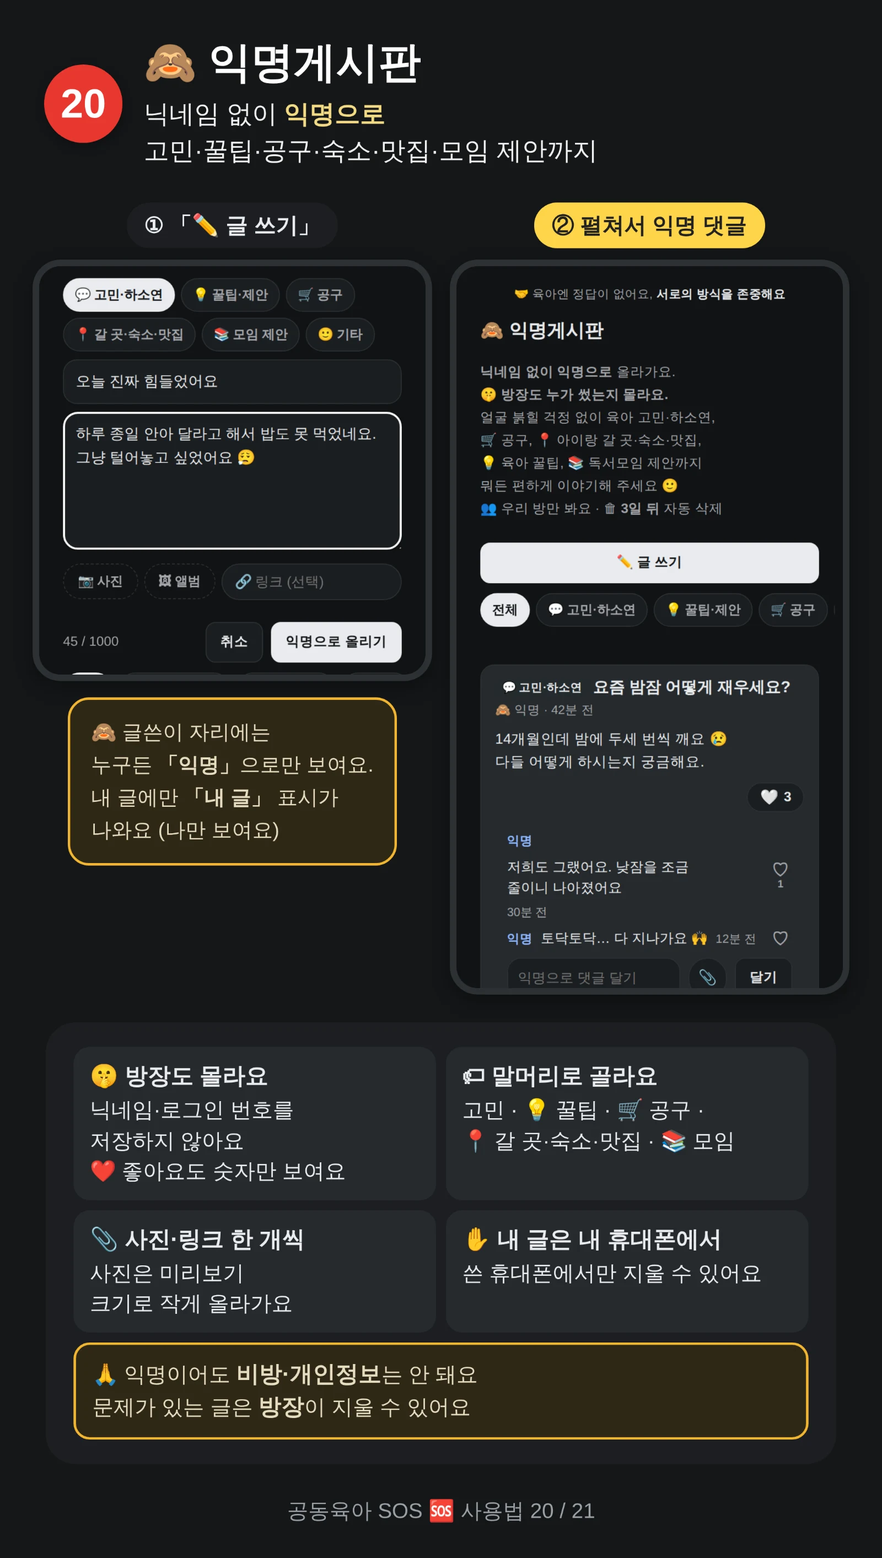
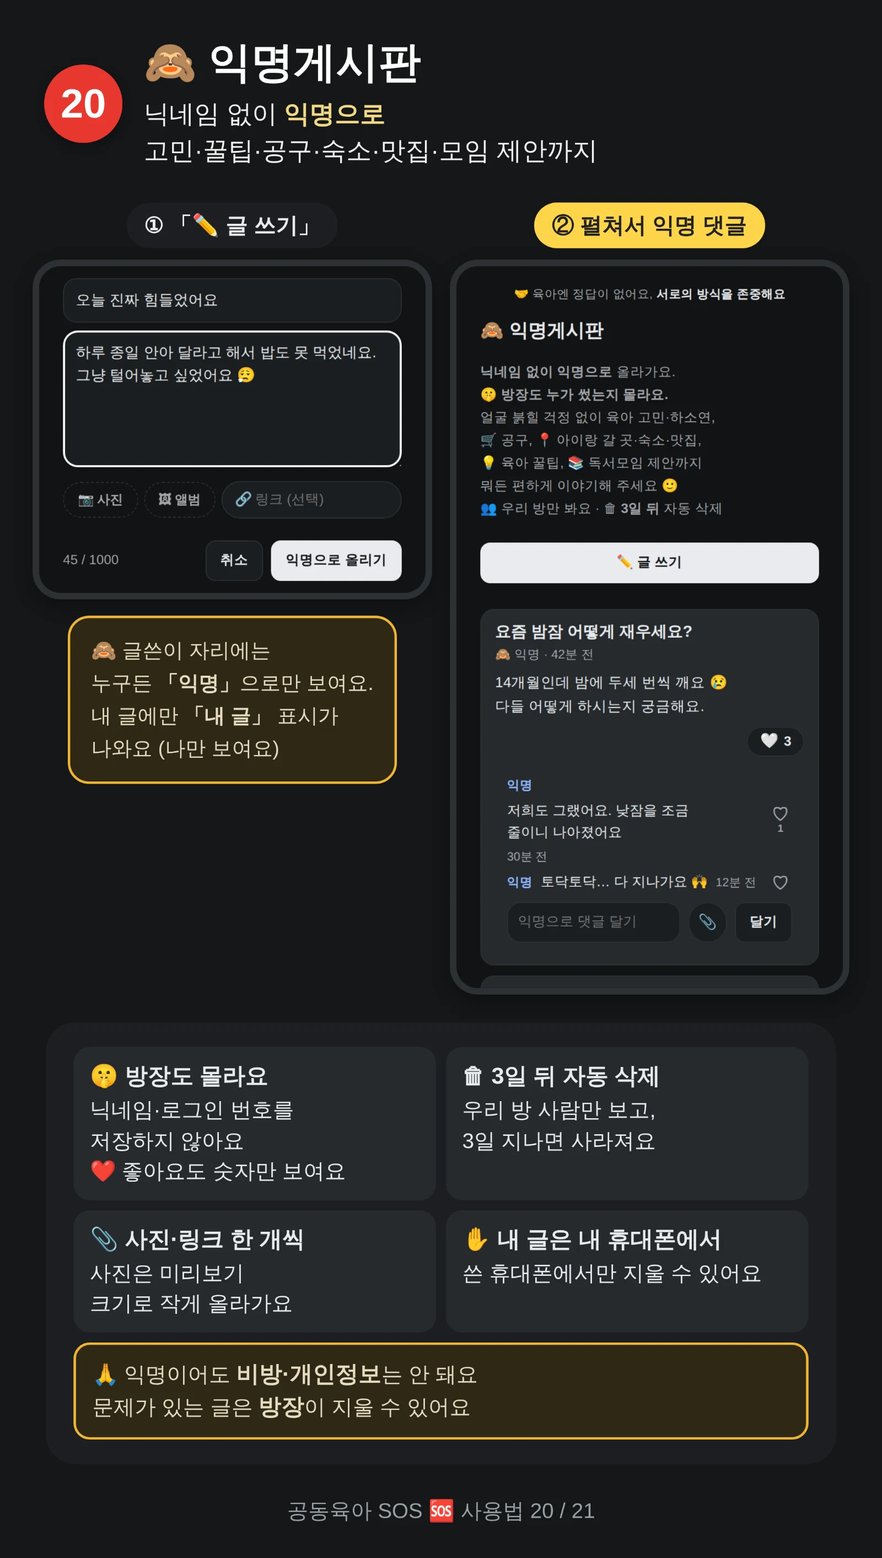
익명게시판 말머리 구분 제거 (필터·배지·글쓰기 선택 없앰), 개인정보 문구·사용법 20 갱신
Claude-Session: https://claude.ai/code/session_01EFizHcDdWswyQN5TmKwWHe

diff --git a/sos/safety.html b/sos/safety.html
@@ -8,14 +8,14 @@
 <link rel="preconnect" href="https://fonts.gstatic.com" crossorigin>
 <link rel="stylesheet" href="https://fonts.googleapis.com/css2?family=IBM+Plex+Sans+KR:wght@400;500;600;700&display=swap">
 <link rel="icon" href="assets/icon.svg" type="image/svg+xml">
-<link rel="manifest" href="manifest.webmanifest?v=202610150110">
+<link rel="manifest" href="manifest.webmanifest?v=202610150342">
 <meta name="theme-color" content="#2a9095">
 <link rel="apple-touch-icon" href="assets/icon-sos-180.png">
 <meta name="apple-mobile-web-app-capable" content="yes">
 <meta name="mobile-web-app-capable" content="yes">
 <meta name="apple-mobile-web-app-title" content="공동육아 SOS">
-<link rel="stylesheet" href="assets/common.css?v=202610150110">
-<script src="assets/gate.js?v=202610150110"></script>
+<link rel="stylesheet" href="assets/common.css?v=202610150342">
+<script src="assets/gate.js?v=202610150342"></script>
 </head>
 <body>
 <div class="wrap single">
@@ -100,7 +100,7 @@
         <tr><td>🙌 모임</td><td>날짜·시간, 장소/놀이 글, <b>주최자 닉네임</b>(연 사람은 처음부터 '참석'으로 표시돼요), 참석·불참한 사람의 닉네임, 댓글 글과 닉네임, 붙인 경우 미리보기 크기로 줄인 사진 한 장(약 20KB)과 링크 주소, ❤ 좋아요 누른 사람의 익명 로그인 번호(uid)와 닉네임(누가 눌렀는지 보여요, 댓글 좋아요도 같아요)</td></tr>
         <tr><td>🍚 식단 사진</td><td>작게 줄인 사진(한 장 약 20KB), <b>올린 사람의 닉네임</b>, 끼니·날짜, 적은 경우 메모·아이 개월수, 익명 로그인 번호(uid), ❤ 좋아요 누른 사람의 익명 로그인 번호와 닉네임(누가 눌렀는지 보여요). 올린 날부터 3일 뒤 지워져요.</td></tr>
         <tr><td>💬 사진·모임 댓글</td><td>댓글 글, <b>쓴 사람의 닉네임</b>, 시간, 답글이면 받는 사람의 로그인 번호(알림을 보내는 데만 써요). 사진·모임과 함께 지워져요.</td></tr>
-        <tr><td>🙈 익명게시판</td><td>말머리(고민·제안·공구·갈 곳·모임·기타), 제목·내용·댓글과 올린 시간, 붙인 경우 미리보기 크기로 줄인 사진 한 장(약 20KB)과 링크 주소, '내 글' 확인용 비밀값의 지문(kh), ❤ 좋아요(글·댓글)는 누가 눌렀는지 알 수 없게 글마다 다른 지문만. <b>닉네임·로그인 번호는 저장하지 않아서 방장도 누가 썼는지, 누가 좋아요를 눌렀는지 몰라요.</b> 3일 뒤 지워져요.</td></tr>
+        <tr><td>🙈 익명게시판</td><td>제목·내용·댓글과 올린 시간, 붙인 경우 미리보기 크기로 줄인 사진 한 장(약 20KB)과 링크 주소, '내 글' 확인용 비밀값의 지문(kh), ❤ 좋아요(글·댓글)는 누가 눌렀는지 알 수 없게 글마다 다른 지문만. <b>닉네임·로그인 번호는 저장하지 않아서 방장도 누가 썼는지, 누가 좋아요를 눌렀는지 몰라요.</b> 3일 뒤 지워져요.</td></tr>
         <tr><td>📈 운영 통계</td><td>방 사람들은 볼 수 없고 <b>운영자만</b> 봐요. ① 날짜별 방문자 수·조회수 숫자 두 개 (누가 왔는지는 없어요) ② 방마다 '들어온 시각' 기록 (닉네임 없이 시각만. 누적 가입자 수를 세는 데 써요)</td></tr>
       </table>
       <p class="hint">모임 방마다 따로 저장돼서, <b>방 비밀번호를 아는 사람만</b> 그 방의 SOS·모임·댓글·식단·익명게시판을 볼 수 있어요. 다른 방 사람은 볼 수 없어요.<br>통신은 모두 암호화(HTTPS)돼요. 서버는 Google Firebase를 써요.</p>
@@ -128,7 +128,7 @@
         <li><b>멤버</b>: 방장은 '👥 멤버'에서 내보낼 수 있어요. 내보내진 휴대폰은 그 방을 더 이상 볼 수 없어요.</li>
         <li><b>모임 댓글</b>: 쓴 휴대폰에서 댓글 옆 '수정'·'삭제'를 누르면 돼요.</li>
         <li><b>🍚 식단 사진</b>: 우리 방 사람만 볼 수 있어요. 휴대폰에서 작게 줄여(한 장 약 20KB) 올리고, 올린 날부터 3일 뒤 서버에서 자동으로 지워져요. 올린 사람과 방장만 '✕'로 지울 수 있어요. 아이 얼굴·집 안이 나오지 않게 음식만 찍어 주세요.</li>
-        <li><b>🙈 익명게시판</b>: 말머리와 제목·내용·댓글, 올린 시간, 붙인 사진·링크만 저장하고, 닉네임·로그인 번호는 저장하지 않아요. 내 글인지는 이 휴대폰에만 있는 비밀값으로 확인해요. 우리 방 사람만 볼 수 있고 3일 뒤 자동으로 지워져요. '내 정보 모두 지우기'를 누르면 이 휴대폰에서 쓴 글·댓글도 지워져요. 모임·식단에 누른 ❤ 좋아요도 함께 빠지고, 익명게시판 좋아요는 누가 눌렀는지 알 수 없어서 글과 함께 3일 안에 사라져요.</li>
+        <li><b>🙈 익명게시판</b>: 제목·내용·댓글, 올린 시간, 붙인 사진·링크만 저장하고, 닉네임·로그인 번호는 저장하지 않아요. 내 글인지는 이 휴대폰에만 있는 비밀값으로 확인해요. 우리 방 사람만 볼 수 있고 3일 뒤 자동으로 지워져요. '내 정보 모두 지우기'를 누르면 이 휴대폰에서 쓴 글·댓글도 지워져요. 모임·식단에 누른 ❤ 좋아요도 함께 빠지고, 익명게시판 좋아요는 누가 눌렀는지 알 수 없어서 글과 함께 3일 안에 사라져요.</li>
         <li><b>💬 사진 댓글·답글</b>: 닉네임·글·시간이 저장되고, 사진과 함께 지워져요. 쓴 사람·사진 올린 사람·방장이 지울 수 있어요. 댓글이나 답글이 달리면 받는 사람에게만 알림이 가요(알림 채널 이름은 방 열쇠와 로그인 번호로 만든 암호값이에요).</li>
         <li><b>알림</b>: 알림을 켜면 이 휴대폰의 알림 주소(토큰)가 Google 알림 서버(Firebase Cloud Messaging)에 우리 방 채널로 등록돼요. 잠금화면에 보일 수 있어서 새 모임·SOS 알림에는 방 이름과 날짜·시간만 넣어요. 댓글·답글 알림은 받는 사람 한 명에게만 가고 쓴 사람 닉네임과 글 앞부분(60자까지)이 보여요, 홈의 '알림 끄기'로 언제든 빠질 수 있어요.</li>
         <li class="ttl-only"><b>자동 삭제</b>: 모임·댓글·SOS 요청는 그 날짜가 지나고 3일 뒤 서버에서 자동으로 지워져요. (방 사람이 앱을 열 때 정리돼요. 아무도 열지 않으면 조금 늦어질 수 있어요)</li>
@@ -150,8 +150,8 @@
 <script src="https://www.gstatic.com/firebasejs/10.12.0/firebase-auth-compat.js"></script>
 <script src="https://www.gstatic.com/firebasejs/10.12.0/firebase-firestore-compat.js"></script>
 <script src="https://www.gstatic.com/firebasejs/10.12.0/firebase-messaging-compat.js"></script>
-<script src="assets/common.js?v=202610150110"></script>
-<script src="assets/push.js?v=202610150110"></script>
+<script src="assets/common.js?v=202610150342"></script>
+<script src="assets/push.js?v=202610150342"></script>
 <script>
 document.getElementById('deleteMe').addEventListener('click', async e => {
   const owning = sosRooms().filter(r => r.owner).map(r => r.name);   // 내가 방장인 방이 있으면 먼저 알려 줘요

diff --git a/sos/assets/idea.js b/sos/assets/idea.js
@@ -26,15 +26,13 @@ function renderIdeas(){
   const fo = document.activeElement && document.activeElement.closest && document.activeElement.closest('[data-idea]');   // 쓰는 중인 댓글은 지켜요
   const draft = fo ? {id: fo.dataset.idea, v: fo.querySelector('input').value} : null;
   ul.querySelectorAll('[data-idea] input').forEach(i => { if(i.value) idea.drafts[i.closest('[data-idea]').dataset.idea] = i.value; });
-  const list = idea.items.filter(x => !x.deleted && (!idea.filter || (x.c || 'talk') === idea.filter));
-  const f = $i('#ideaFilter'); if(f && !f.childElementCount){ f.innerHTML = [['', '전체'], ...IDEA_CATS].map(([k, n]) => `<button type="button" data-filter="${k}" aria-pressed="${k === idea.filter}">${n}</button>`).join(''); }
-  if(f) f.querySelectorAll('button').forEach(b => b.setAttribute('aria-pressed', String(b.dataset.filter === idea.filter)));
-  if(!list.length){ ul.innerHTML = `<li class="hint idea-empty">${idea.filter ? '이 말머리 글이 아직 없어요.' : '아직 글이 없어요. 첫 이야기를 편하게 남겨 보세요 🙂'}</li>`; return; }
+  const list = idea.items.filter(x => !x.deleted);   // 말머리 구분 없이 전부 (v19: 말머리 칸은 숨겨요)
+  if(!list.length){ ul.innerHTML = `<li class="hint idea-empty">아직 글이 없어요. 첫 이야기를 편하게 남겨 보세요 🙂</li>`; return; }
   ul.innerHTML = '';
   list.forEach(x => {
     const li = document.createElement('li'); li.className = 'idea-card'; li.dataset.id = x.id;
     const mine = !!keys[ipath(x.id)], opened = idea.open.has(x.id);
-    li.innerHTML = `<button type="button" class="idea-head" data-toggle="${x.id}" aria-expanded="${opened}"><b class="idea-t"><span class="idea-cat">${catName(x.c || 'talk')}</span></b><span class="idea-m">🙈 익명 · ${ago(x.createdAt)}${mine ? ' · 내 글' : ''}</span></button>
+    li.innerHTML = `<button type="button" class="idea-head" data-toggle="${x.id}" aria-expanded="${opened}"><b class="idea-t"></b><span class="idea-m">🙈 익명 · ${ago(x.createdAt)}${mine ? ' · 내 글' : ''}</span></button>
       <p class="idea-b"></p>`;
     li.querySelector('.idea-t').appendChild(document.createTextNode(x.t));
     const b = li.querySelector('.idea-b'); b.textContent = x.b; if(!opened) b.classList.add('clip');
@@ -104,10 +102,6 @@ async function removeDoc(ref, path){
   $i('#ideaCancel').addEventListener('click', () => { form.hidden = true; $i('#ideaOpen').hidden = false; });
   body.addEventListener('input', () => { $i('#ideaCount').textContent = `${body.value.length} / 1000`; });
   if(typeof attachUI === 'function') idea.attach = attachUI(form, {before: $i('#ideaAttach')});
-  const cats = $i('#ideaCats'); cats.innerHTML = IDEA_CATS.map(([k, n]) => `<button type="button" data-cat="${k}" aria-pressed="${k === idea.cat}">${n}</button>`).join('');
-  cats.addEventListener('click', e => { const b = e.target.closest('[data-cat]'); if(!b) return; idea.cat = b.dataset.cat; cats.querySelectorAll('button').forEach(x => x.setAttribute('aria-pressed', String(x === b)));
-    title.placeholder = {talk: '제목 (예: 요즘 밤잠 어떻게 재우세요?)', idea: '제목 (예: 밤잠 꿀팁 하나 공유해요 / 모임 시간 바꿔 볼까요?)', buy: '제목 (예: 기저귀 공구 같이 하실 분?)', place: '제목 (예: 아이랑 가기 좋은 숙소·맛집 추천해요)', club: '제목 (예: 육아책 독서모임 해요)', etc: '제목'}[idea.cat] || '제목'; });
-  $i('#ideaFilter').addEventListener('click', e => { const b = e.target.closest('[data-filter]'); if(!b) return; idea.filter = b.dataset.filter; renderIdeas(); });
   sosReady().then(ok => {
     if(!ok){ $i('#ideaList').innerHTML = '<li class="hint">익명게시판을 불러오지 못했어요. 잠시 뒤 다시 열어 주세요.</li>'; return; }
     idea.col = roomRef().collection('ideas');
@@ -127,7 +121,7 @@ async function removeDoc(ref, path){
     try{
       const ref = idea.col.doc(), k = secret();
       setIdeaKey(ipath(ref.id), k);
-      await ref.set({t, b, c: idea.cat, ...at, kh: await sha(k), createdAt: firebase.firestore.FieldValue.serverTimestamp(),
+      await ref.set({t, b, ...at, kh: await sha(k), createdAt: firebase.firestore.FieldValue.serverTimestamp(),
         expireAt: firebase.firestore.Timestamp.fromMillis(Date.now() + IDEA_DAYS * 864e5)});
       title.value = ''; body.value = ''; $i('#ideaCount').textContent = '0 / 1000'; if(idea.attach) idea.attach.clear();
       form.hidden = true; $i('#ideaOpen').hidden = false;

diff --git a/sos/idea.html b/sos/idea.html
@@ -8,14 +8,14 @@
 <link rel="preconnect" href="https://fonts.gstatic.com" crossorigin>
 <link rel="stylesheet" href="https://fonts.googleapis.com/css2?family=IBM+Plex+Sans+KR:wght@400;500;600;700&display=swap">
 <link rel="icon" href="assets/icon.svg" type="image/svg+xml">
-<link rel="manifest" href="manifest.webmanifest?v=202610150110">
+<link rel="manifest" href="manifest.webmanifest?v=202610150342">
 <meta name="theme-color" content="#2a9095">
 <link rel="apple-touch-icon" href="assets/icon-sos-180.png">
 <meta name="apple-mobile-web-app-capable" content="yes">
 <meta name="mobile-web-app-capable" content="yes">
 <meta name="apple-mobile-web-app-title" content="공동육아 SOS">
-<link rel="stylesheet" href="assets/common.css?v=202610150110">
-<script src="assets/gate.js?v=202610150110"></script>
+<link rel="stylesheet" href="assets/common.css?v=202610150342">
+<script src="assets/gate.js?v=202610150342"></script>
 </head>
 <body>
 <div class="wrap single">
@@ -26,13 +26,11 @@
       <p class="hint idea-note"><b>닉네임 없이 익명으로</b> 올라가요. <span class="nw">🤫 <b>방장도 누가 썼는지 몰라요.</b></span><br><span class="nw">얼굴 붉힐 걱정 없이</span> <span class="nw">육아 고민·하소연,</span> <span class="nw">🛒 공구, 📍 아이랑 갈 곳·숙소·맛집,</span> <span class="nw">💡 육아 꿀팁, 📚 독서모임 제안까지</span> <span class="nw">뭐든 편하게 이야기해 주세요 🙂</span><br><span class="nw">👥 우리 방만 봐요</span> · <span class="nw">🗑 <b>3일 뒤</b> 자동 삭제</span></p>
       <button type="button" class="btn primary block" id="ideaOpen">✏ 글 쓰기</button>
       <form class="idea-form" id="ideaForm" hidden>
-        <div class="idea-cats" id="ideaCats" role="group" aria-label="말머리"></div>
         <input type="text" id="ideaTitle" maxlength="40" placeholder="제목 (예: 요즘 밤잠 어떻게 재우세요?)" aria-label="제목">
         <textarea id="ideaBody" maxlength="1000" rows="5" placeholder="고민·하소연·제안, 뭐든 자유롭게 적어 주세요. 이름·연락처 같은 개인정보는 빼 주세요." aria-label="내용"></textarea>
         <div id="ideaAttach"></div>
         <div class="idea-row"><span class="hint" id="ideaCount">0 / 1000</span><button type="button" class="btn" id="ideaCancel">취소</button><button type="submit" class="btn primary" id="ideaSend">익명으로 올리기</button></div>
       </form>
-      <div class="idea-cats idea-filter" id="ideaFilter" role="group" aria-label="말머리로 보기"></div>
       <ul class="idea-list" id="ideaList"><li class="hint">불러오는 중…</li></ul>
     </section>
     <p class="tiny-note">🙈 쓴 사람이 누구인지 서버에도 남지 않아요.<br><span class="nw">(닉네임·로그인 번호 저장 안 함)</span><br>내 글은 <b>쓴 휴대폰</b>에서만 지울 수 있어요.<br>비방·개인정보가 담긴 글은 <b>방장</b>이 지울 수 있어요.</p>
@@ -43,8 +41,8 @@
 <script src="https://www.gstatic.com/firebasejs/10.12.0/firebase-auth-compat.js"></script>
 <script src="https://www.gstatic.com/firebasejs/10.12.0/firebase-firestore-compat.js"></script>
 <script src="https://www.gstatic.com/firebasejs/10.12.0/firebase-messaging-compat.js"></script>
-<script src="assets/common.js?v=202610150110"></script>
-<script src="assets/push.js?v=202610150110"></script>
-<script src="assets/idea.js?v=202610150110"></script>
+<script src="assets/common.js?v=202610150342"></script>
+<script src="assets/push.js?v=202610150342"></script>
+<script src="assets/idea.js?v=202610150342"></script>
 </body>
 </html>

diff --git a/sos/index.html b/sos/index.html
@@ -9,14 +9,14 @@
 <link rel="preconnect" href="https://fonts.gstatic.com" crossorigin>
 <link rel="stylesheet" href="https://fonts.googleapis.com/css2?family=IBM+Plex+Sans+KR:wght@400;500;600;700&display=swap">
 <link rel="icon" href="assets/icon.svg" type="image/svg+xml">
-<link rel="manifest" href="manifest.webmanifest?v=202610150110">
+<link rel="manifest" href="manifest.webmanifest?v=202610150342">
 <meta name="theme-color" content="#2a9095">
 <link rel="apple-touch-icon" href="assets/icon-sos-180.png">
 <meta name="apple-mobile-web-app-capable" content="yes">
 <meta name="mobile-web-app-capable" content="yes">
 <meta name="apple-mobile-web-app-title" content="공동육아 SOS">
-<link rel="stylesheet" href="assets/common.css?v=202610150110">
-<script src="assets/gate.js?v=202610150110"></script>
+<link rel="stylesheet" href="assets/common.css?v=202610150342">
+<script src="assets/gate.js?v=202610150342"></script>
 </head>
 <body>
 <div class="wrap single">
@@ -85,8 +85,8 @@
 <script src="https://www.gstatic.com/firebasejs/10.12.0/firebase-auth-compat.js"></script>
 <script src="https://www.gstatic.com/firebasejs/10.12.0/firebase-firestore-compat.js"></script>
 <script src="https://www.gstatic.com/firebasejs/10.12.0/firebase-messaging-compat.js"></script>
-<script src="assets/common.js?v=202610150110"></script>
-<script src="assets/push.js?v=202610150110"></script>
+<script src="assets/common.js?v=202610150342"></script>
+<script src="assets/push.js?v=202610150342"></script>
 <script>
 sosSummary();
 // 🦸 구원자: 처음엔 오른쪽 위에서 흔들흔들 → 조금 뒤 테두리를 한 바퀴 날고 다시 제자리 (그 뒤로도 가끔)

diff --git a/sos/meal.html b/sos/meal.html
@@ -8,14 +8,14 @@
 <link rel="preconnect" href="https://fonts.gstatic.com" crossorigin>
 <link rel="stylesheet" href="https://fonts.googleapis.com/css2?family=IBM+Plex+Sans+KR:wght@400;500;600;700&display=swap">
 <link rel="icon" href="assets/icon.svg" type="image/svg+xml">
-<link rel="manifest" href="manifest.webmanifest?v=202610150110">
+<link rel="manifest" href="manifest.webmanifest?v=202610150342">
 <meta name="theme-color" content="#2a9095">
 <link rel="apple-touch-icon" href="assets/icon-sos-180.png">
 <meta name="apple-mobile-web-app-capable" content="yes">
 <meta name="mobile-web-app-capable" content="yes">
 <meta name="apple-mobile-web-app-title" content="공동육아 SOS">
-<link rel="stylesheet" href="assets/common.css?v=202610150110">
-<script src="assets/gate.js?v=202610150110"></script>
+<link rel="stylesheet" href="assets/common.css?v=202610150342">
+<script src="assets/gate.js?v=202610150342"></script>
 </head>
 <body>
 <div class="wrap single">
@@ -44,8 +44,8 @@
 <script src="https://www.gstatic.com/firebasejs/10.12.0/firebase-auth-compat.js"></script>
 <script src="https://www.gstatic.com/firebasejs/10.12.0/firebase-firestore-compat.js"></script>
 <script src="https://www.gstatic.com/firebasejs/10.12.0/firebase-messaging-compat.js"></script>
-<script src="assets/common.js?v=202610150110"></script>
-<script src="assets/push.js?v=202610150110"></script>
-<script src="assets/meal.js?v=202610150110"></script>
+<script src="assets/common.js?v=202610150342"></script>
+<script src="assets/push.js?v=202610150342"></script>
+<script src="assets/meal.js?v=202610150342"></script>
 </body>
 </html>

diff --git a/sos/meet.html b/sos/meet.html
@@ -8,14 +8,14 @@
 <link rel="preconnect" href="https://fonts.gstatic.com" crossorigin>
 <link rel="stylesheet" href="https://fonts.googleapis.com/css2?family=IBM+Plex+Sans+KR:wght@400;500;600;700&display=swap">
 <link rel="icon" href="assets/icon.svg" type="image/svg+xml">
-<link rel="manifest" href="manifest.webmanifest?v=202610150110">
+<link rel="manifest" href="manifest.webmanifest?v=202610150342">
 <meta name="theme-color" content="#2a9095">
 <link rel="apple-touch-icon" href="assets/icon-sos-180.png">
 <meta name="apple-mobile-web-app-capable" content="yes">
 <meta name="mobile-web-app-capable" content="yes">
 <meta name="apple-mobile-web-app-title" content="공동육아 SOS">
-<link rel="stylesheet" href="assets/common.css?v=202610150110">
-<script src="assets/gate.js?v=202610150110"></script>
+<link rel="stylesheet" href="assets/common.css?v=202610150342">
+<script src="assets/gate.js?v=202610150342"></script>
 </head>
 <body>
 <div class="wrap single">
@@ -60,8 +60,8 @@
 <script src="https://www.gstatic.com/firebasejs/10.12.0/firebase-auth-compat.js"></script>
 <script src="https://www.gstatic.com/firebasejs/10.12.0/firebase-firestore-compat.js"></script>
 <script src="https://www.gstatic.com/firebasejs/10.12.0/firebase-messaging-compat.js"></script>
-<script src="assets/common.js?v=202610150110"></script>
-<script src="assets/push.js?v=202610150110"></script>
-<script src="assets/meet.js?v=202610150110"></script>
+<script src="assets/common.js?v=202610150342"></script>
+<script src="assets/push.js?v=202610150342"></script>
+<script src="assets/meet.js?v=202610150342"></script>
 </body>
 </html>

diff --git a/sos/play.html b/sos/play.html
@@ -8,14 +8,14 @@
 <link rel="preconnect" href="https://fonts.gstatic.com" crossorigin>
 <link rel="stylesheet" href="https://fonts.googleapis.com/css2?family=IBM+Plex+Sans+KR:wght@400;500;600;700&display=swap">
 <link rel="icon" href="assets/icon.svg" type="image/svg+xml">
-<link rel="manifest" href="manifest.webmanifest?v=202610150110">
+<link rel="manifest" href="manifest.webmanifest?v=202610150342">
 <meta name="theme-color" content="#2a9095">
 <link rel="apple-touch-icon" href="assets/icon-sos-180.png">
 <meta name="apple-mobile-web-app-capable" content="yes">
 <meta name="mobile-web-app-capable" content="yes">
 <meta name="apple-mobile-web-app-title" content="공동육아 SOS">
-<link rel="stylesheet" href="assets/common.css?v=202610150110">
-<script src="assets/gate.js?v=202610150110"></script>
+<link rel="stylesheet" href="assets/common.css?v=202610150342">
+<script src="assets/gate.js?v=202610150342"></script>
 </head>
 <body>
 <div class="wrap">
@@ -135,8 +135,8 @@
 <script src="https://www.gstatic.com/firebasejs/10.12.0/firebase-app-compat.js"></script>
 <script src="https://www.gstatic.com/firebasejs/10.12.0/firebase-auth-compat.js"></script>
 <script src="https://www.gstatic.com/firebasejs/10.12.0/firebase-firestore-compat.js"></script>
-<script src="plays.js?v=202610150110"></script>
-<script src="assets/common.js?v=202610150110"></script>
-<script src="assets/play.js?v=202610150110"></script>
+<script src="plays.js?v=202610150342"></script>
+<script src="assets/common.js?v=202610150342"></script>
+<script src="assets/play.js?v=202610150342"></script>
 </body>
 </html>

diff --git a/sos/terms.html b/sos/terms.html
@@ -8,14 +8,14 @@
 <link rel="preconnect" href="https://fonts.gstatic.com" crossorigin>
 <link rel="stylesheet" href="https://fonts.googleapis.com/css2?family=IBM+Plex+Sans+KR:wght@400;500;600;700&display=swap">
 <link rel="icon" href="assets/icon.svg" type="image/svg+xml">
-<link rel="manifest" href="manifest.webmanifest?v=202610150110">
+<link rel="manifest" href="manifest.webmanifest?v=202610150342">
 <meta name="theme-color" content="#2a9095">
 <link rel="apple-touch-icon" href="assets/icon-sos-180.png">
 <meta name="apple-mobile-web-app-capable" content="yes">
 <meta name="mobile-web-app-capable" content="yes">
 <meta name="apple-mobile-web-app-title" content="공동육아 SOS">
-<link rel="stylesheet" href="assets/common.css?v=202610150110">
-<script src="assets/gate.js?v=202610150110"></script>
+<link rel="stylesheet" href="assets/common.css?v=202610150342">
+<script src="assets/gate.js?v=202610150342"></script>
 </head>
 <body>
 <div class="wrap single">
@@ -119,6 +119,6 @@
 <script src="https://www.gstatic.com/firebasejs/10.12.0/firebase-app-compat.js"></script>
 <script src="https://www.gstatic.com/firebasejs/10.12.0/firebase-auth-compat.js"></script>
 <script src="https://www.gstatic.com/firebasejs/10.12.0/firebase-firestore-compat.js"></script>
-<script src="assets/common.js?v=202610150110"></script>
+<script src="assets/common.js?v=202610150342"></script>
 </body>
 </html>

diff --git a/sos/admin.html b/sos/admin.html
@@ -12,8 +12,8 @@
 <meta name="apple-mobile-web-app-capable" content="yes">
 <meta name="mobile-web-app-capable" content="yes">
 <meta name="apple-mobile-web-app-title" content="SOS 운영">
-<link rel="stylesheet" href="assets/common.css?v=202610150110">
-<script src="assets/gate.js?v=202610150110"></script>
+<link rel="stylesheet" href="assets/common.css?v=202610150342">
+<script src="assets/gate.js?v=202610150342"></script>
 <style>
 /* 운영자 화면: 숫자 타일 → 주간 막대 → 방 표. 단일 색(teal) 막대, 상태색은 경고에만 */
 body{padding-block:20px 60px}

diff --git a/sos/guide.html b/sos/guide.html
@@ -5,7 +5,7 @@
 <meta name="viewport" content="width=device-width,initial-scale=1,viewport-fit=cover">
 <title>사용법 · 공동육아 SOS</title>
 <link rel="icon" href="assets/icon.svg" type="image/svg+xml">
-<link rel="manifest" href="manifest.webmanifest?v=202610150110">
+<link rel="manifest" href="manifest.webmanifest?v=202610150342">
 <meta name="theme-color" content="#2a9095">
 <link rel="apple-touch-icon" href="assets/icon-sos-180.png">
 <style>
